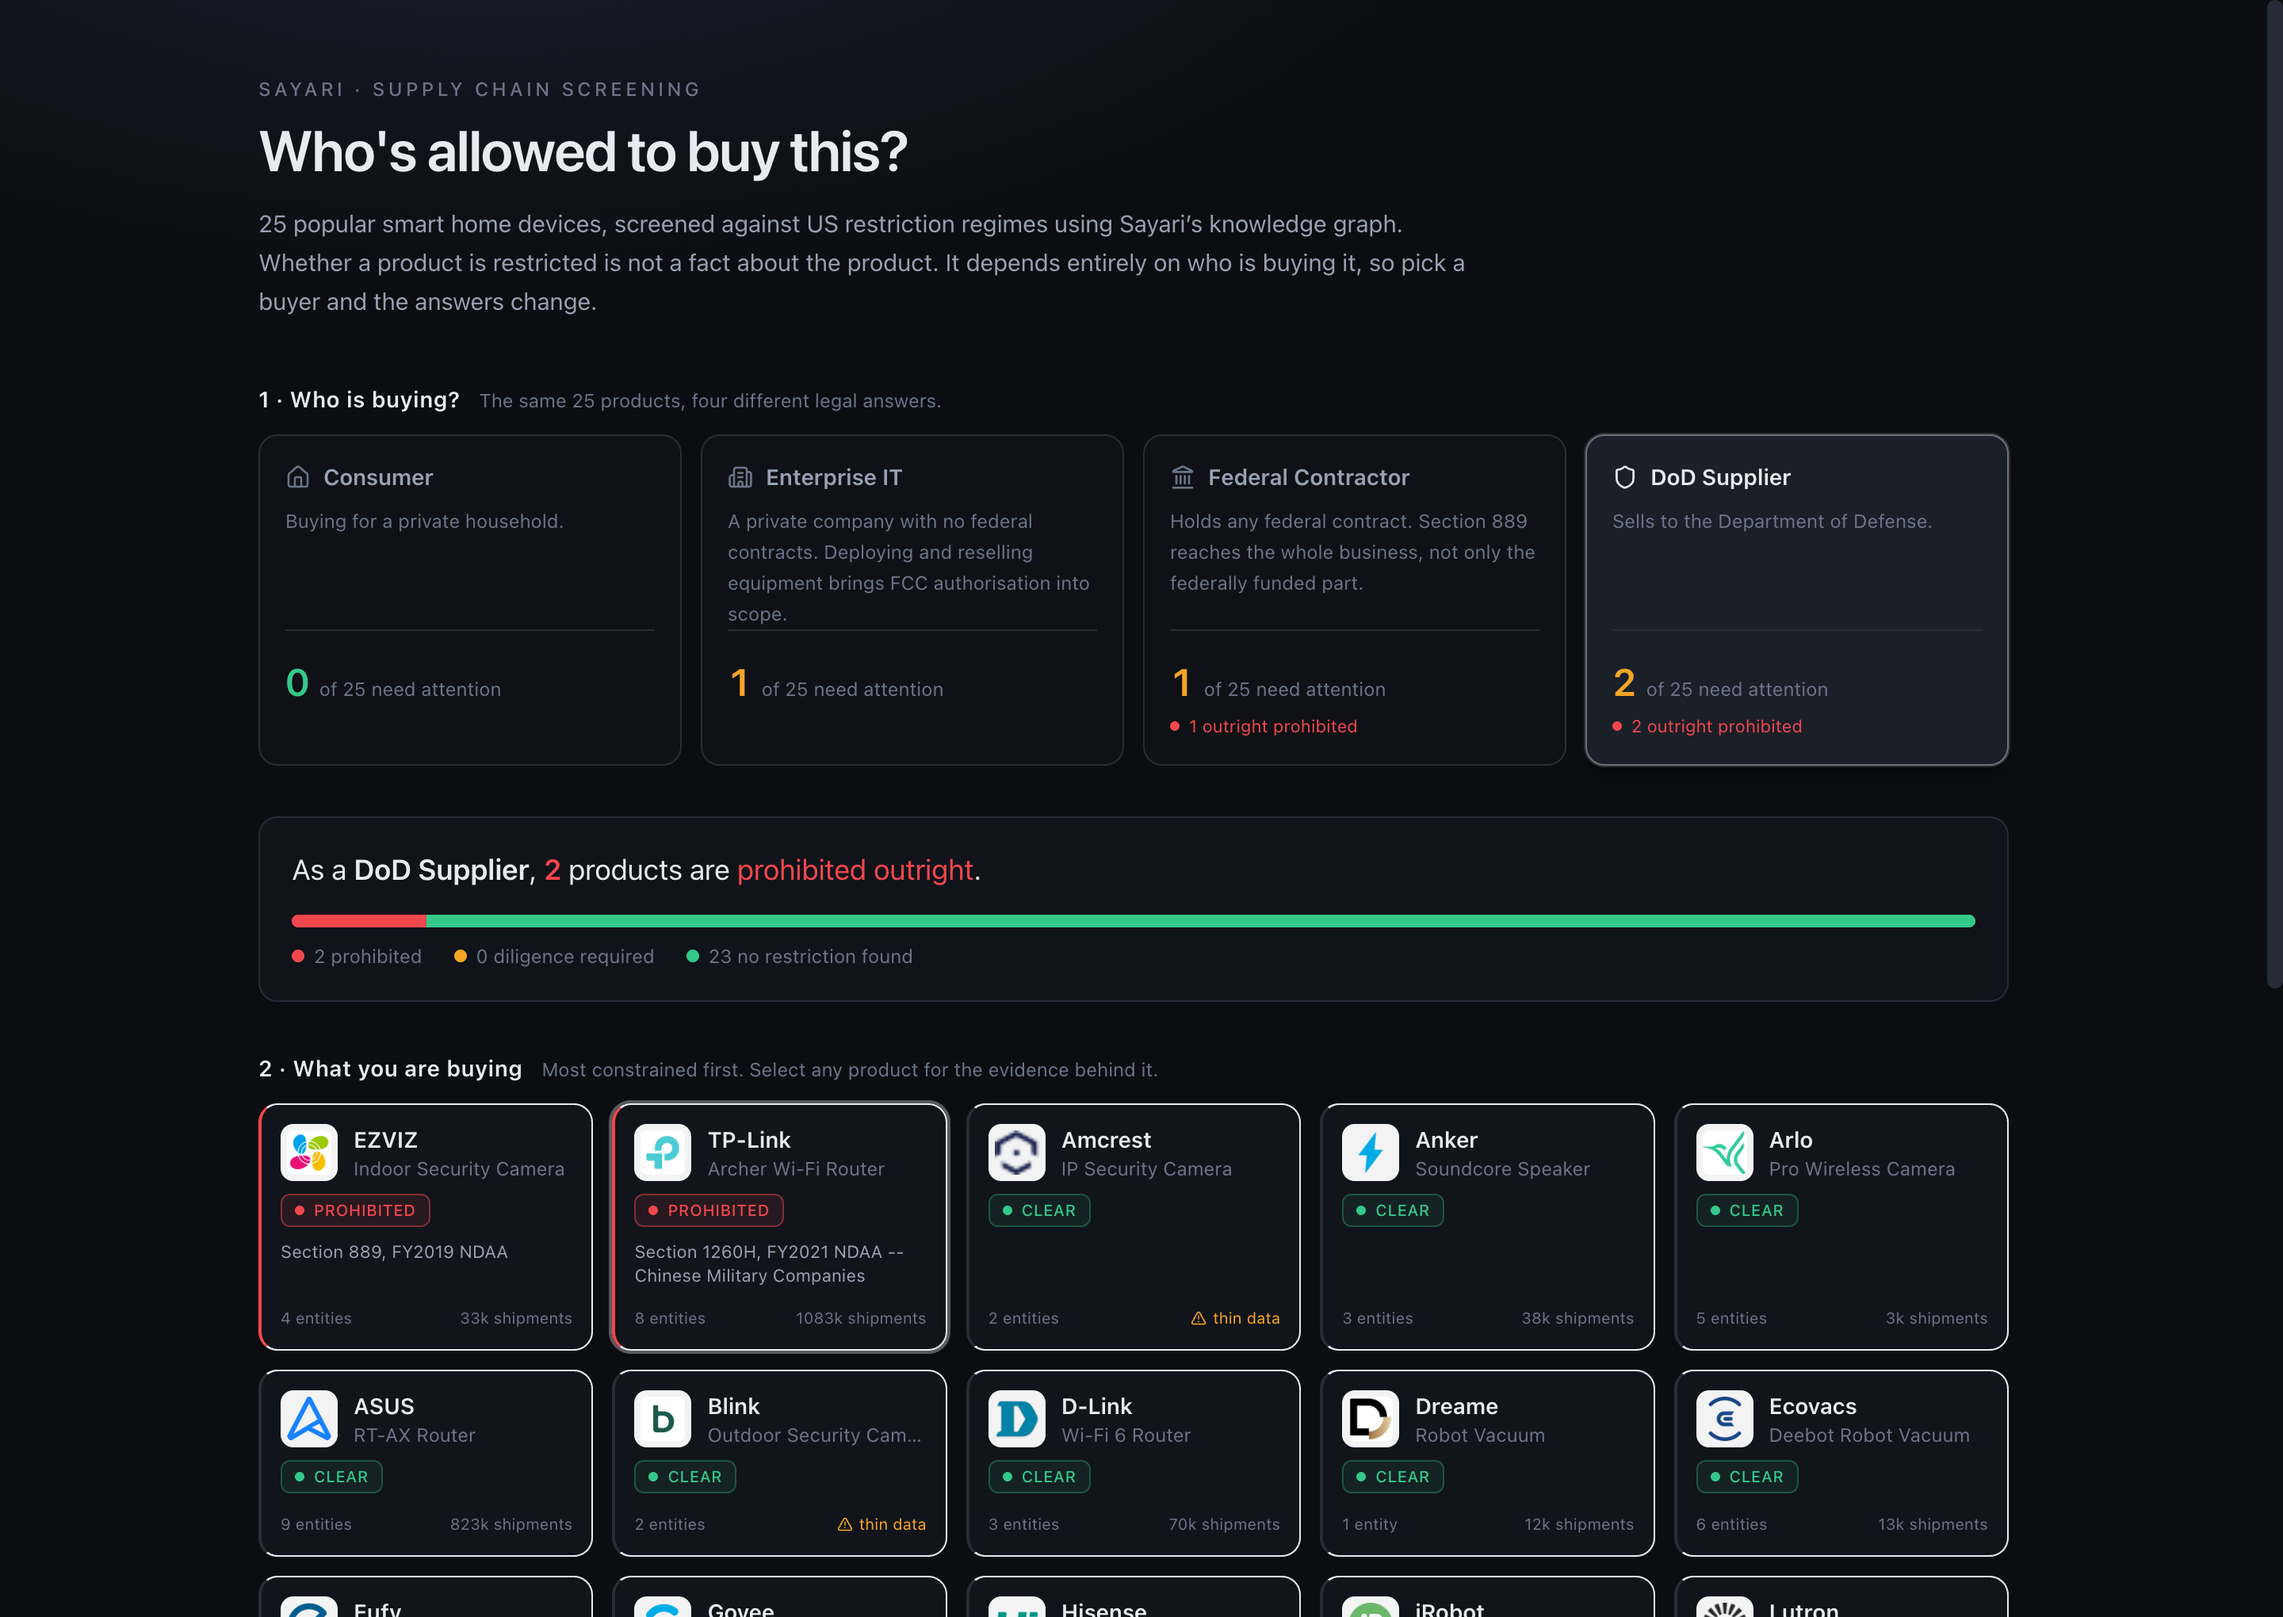
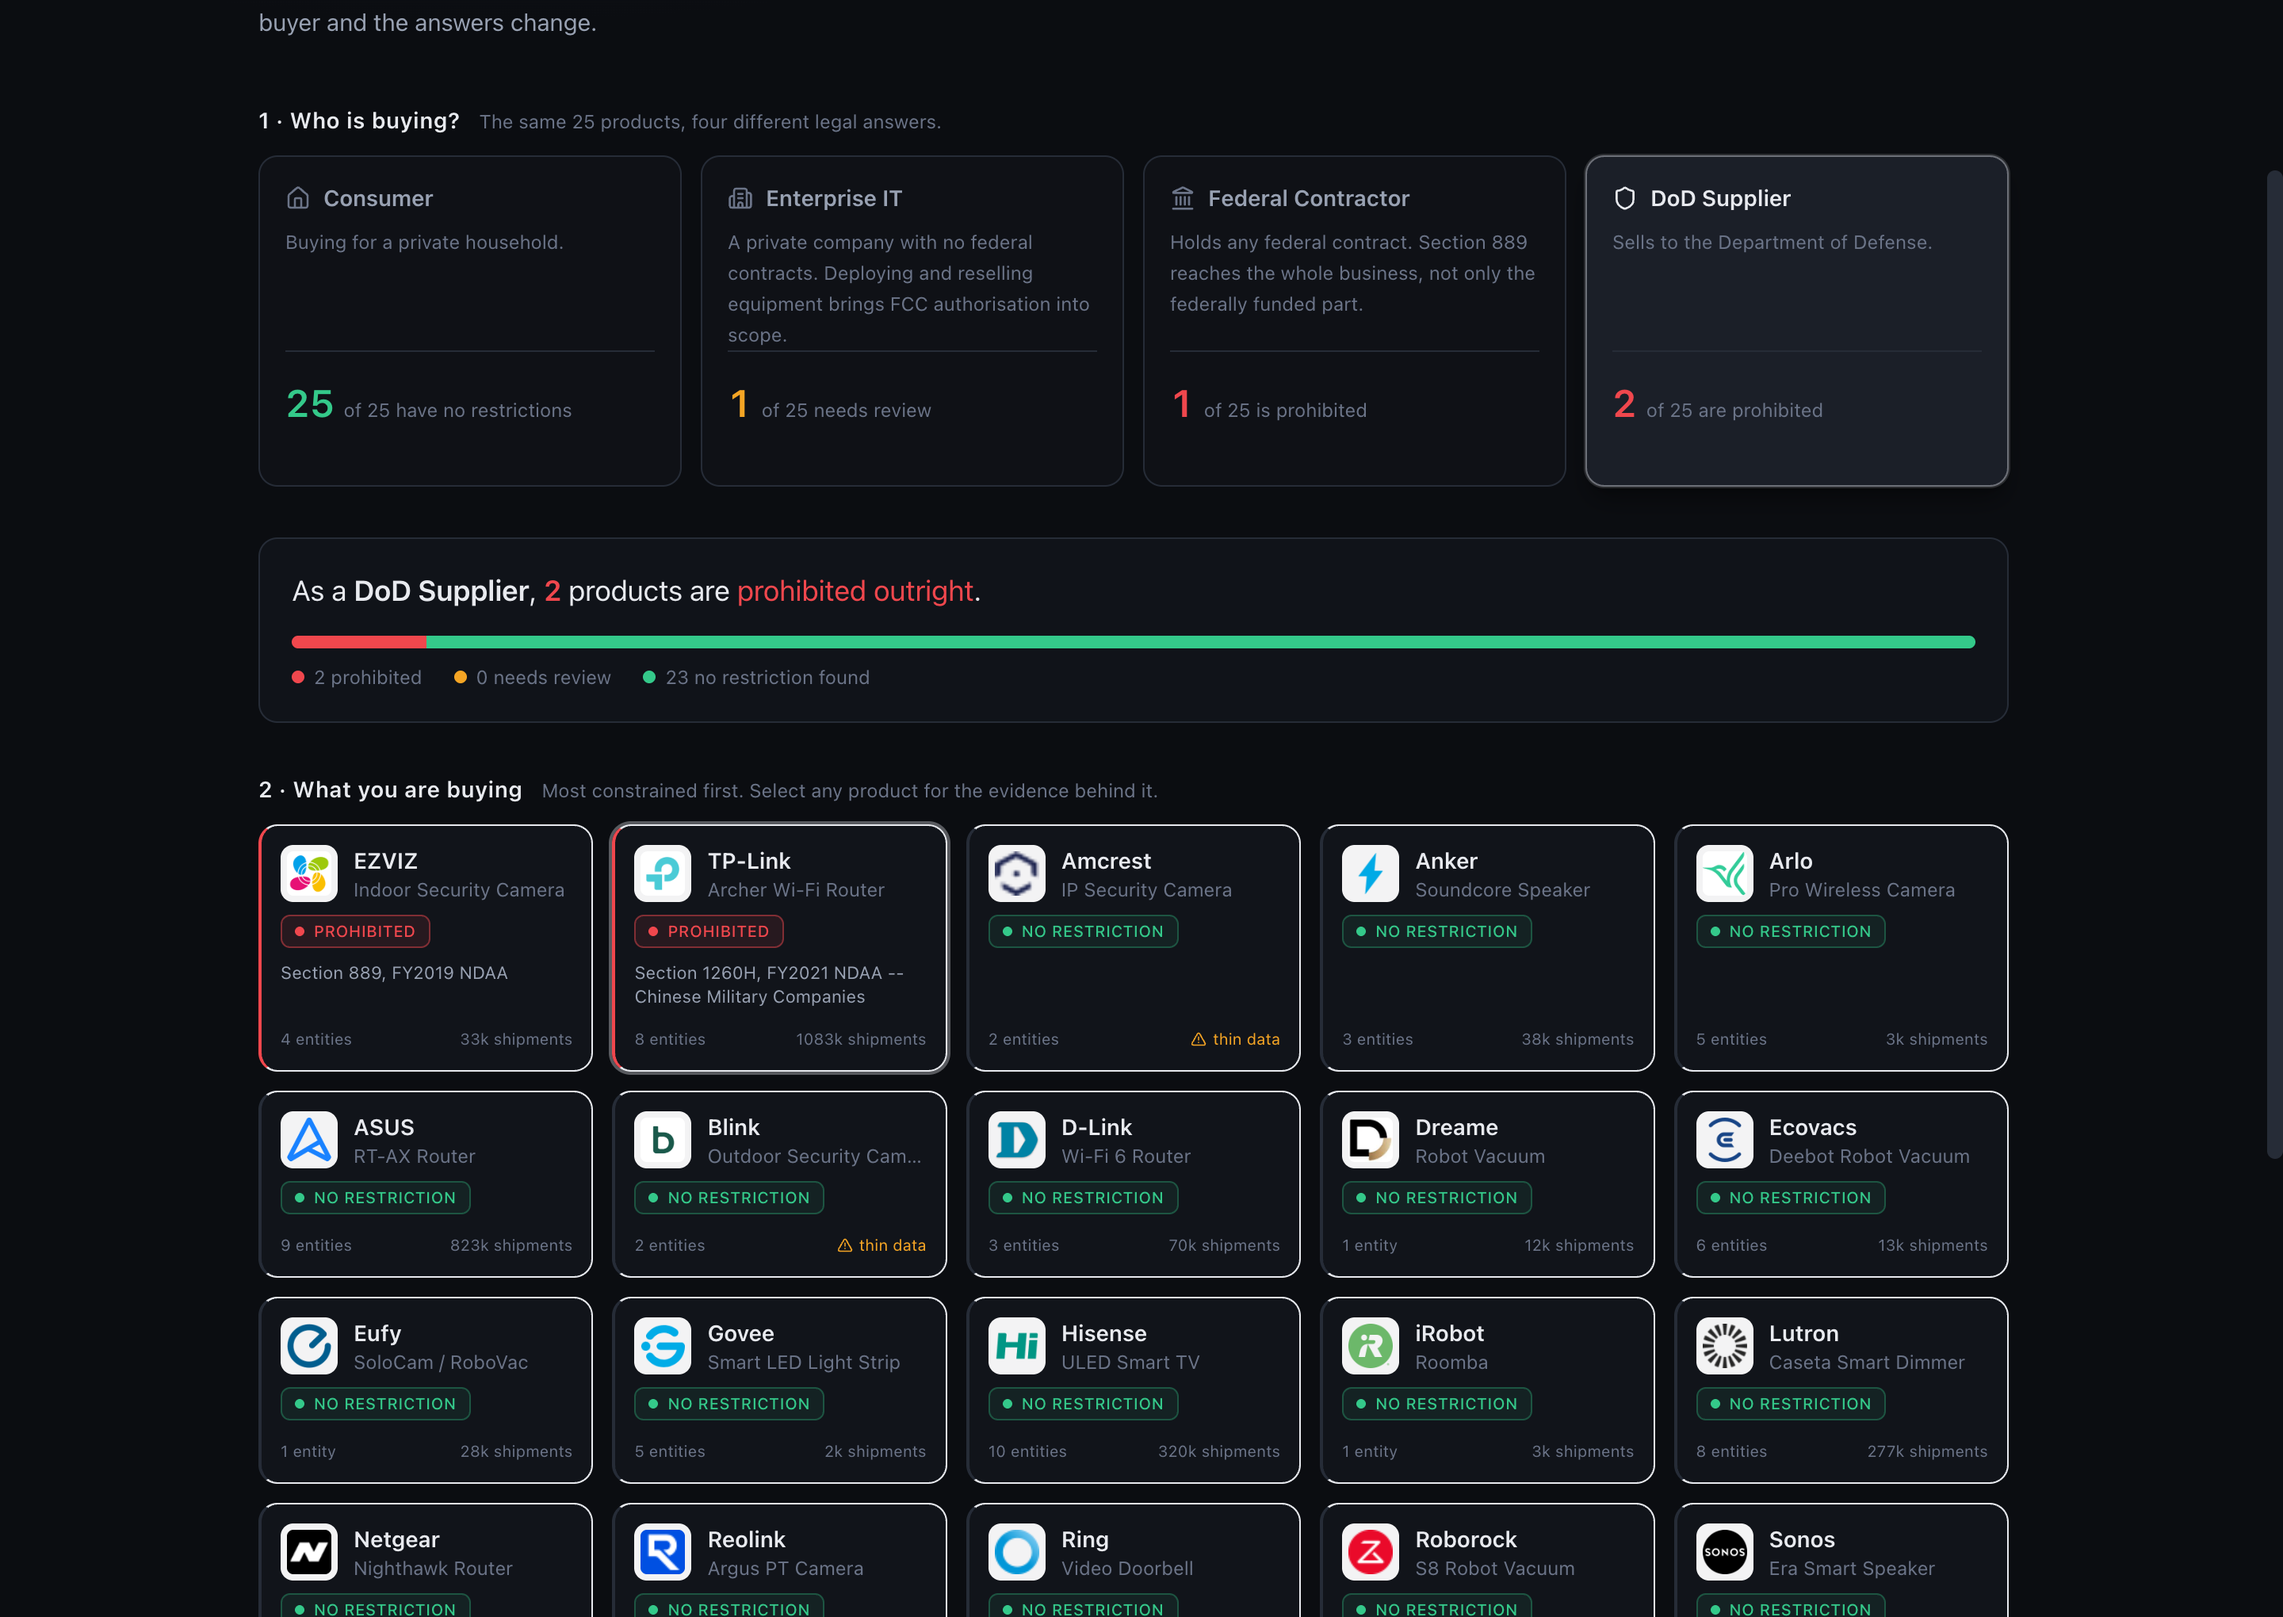
ui: count each product once, and use one name per status
The picker showed "1 of 25 need attention" with "1 outright prohibited"
underneath it -- the same product counted twice, as though a prohibition were a
separate thing from needing attention.

Each profile now leads with its most severe count and names that status:

  Consumer            25 of 25 have no restrictions
  Enterprise IT        1 of 25 needs review
  Federal Contractor   1 of 25 is prohibited
  DoD Supplier         2 of 25 are prohibited

Review only appears as a second line when a profile has both, which no profile
currently does.

Also collapses three synonyms for one verdict. "Diligence required", "Check
first" and "needs review" were the same status wearing different words in the
picker, the cards and the banner, which read as three different things.

diff --git a/frontend/src/components/PersonaPicker.tsx b/frontend/src/components/PersonaPicker.tsx
@@ -1,5 +1,6 @@
 import { Building2, Home, Landmark, Shield } from "lucide-react";
 import type { Persona, ProductCard, Status } from "../types";
+import { STATUS } from "../status";
 
 const ICONS: Record<string, typeof Home> = {
   consumer: Home,
@@ -7,6 +8,35 @@ const ICONS: Record<string, typeof Home> = {
   federal_contractor: Landmark,
   dod: Shield,
 };
+
+/** The one number worth leading with, and what to call it.
+ *
+ *  A profile with 1 prohibited product has 1 problem, not 1 problem plus 1
+ *  "needing attention". Naming the worst status directly is both shorter and
+ *  more accurate than a combined total.
+ */
+function leadWith(counts: Record<Status, number>, total: number) {
+  if (counts.prohibited > 0)
+    return {
+      status: "prohibited" as Status,
+      count: counts.prohibited,
+      wording: counts.prohibited === 1 ? "is prohibited" : "are prohibited",
+      style: STATUS.prohibited,
+    };
+  if (counts.review > 0)
+    return {
+      status: "review" as Status,
+      count: counts.review,
+      wording: counts.review === 1 ? "needs review" : "need review",
+      style: STATUS.review,
+    };
+  return {
+    status: "no_restriction" as Status,
+    count: total,
+    wording: "have no restrictions",
+    style: STATUS.no_restriction,
+  };
+}
 
 function tally(cards: ProductCard[], key: string) {
   const out: Record<Status, number> = {
@@ -51,7 +81,7 @@ export function PersonaPicker({
         {personas.map((persona) => {
           const Icon = ICONS[persona.key] ?? Home;
           const counts = tally(cards, persona.key);
-          const flagged = counts.prohibited + counts.review;
+          const headline = leadWith(counts, cards.length);
           const on = persona.key === active;
 
           return (
@@ -85,25 +115,26 @@ export function PersonaPicker({
                 {persona.blurb}
               </p>
 
+              {/* Lead with the most severe count and name that status. Showing a
+                  combined "needs attention" total alongside a prohibited count
+                  counted the same product twice: 1 needing attention *was* the 1
+                  prohibited. */}
               <div className="mt-auto border-t border-line pt-4">
                 <div className="flex items-baseline gap-1.5">
                   <span
-                    className={[
-                      "text-2xl font-semibold tabular-nums",
-                      flagged === 0 ? "text-clear" : "text-check",
-                    ].join(" ")}
+                    className={`text-2xl font-semibold tabular-nums ${headline.style.text}`}
                   >
-                    {flagged}
+                    {headline.count}
                   </span>
                   <span className="text-xs text-faint">
-                    of {cards.length} need attention
+                    of {cards.length} {headline.wording}
                   </span>
                 </div>
-                <div className="mt-1 flex h-4 items-center gap-1.5 text-[11px] text-stop">
-                  {counts.prohibited > 0 && (
+                <div className="mt-1 flex h-4 items-center gap-1.5 text-[11px] text-check">
+                  {headline.status === "prohibited" && counts.review > 0 && (
                     <>
-                      <span className="h-1.5 w-1.5 rounded-full bg-stop" />
-                      {counts.prohibited} outright prohibited
+                      <span className="h-1.5 w-1.5 rounded-full bg-check" />
+                      {counts.review} more need review
                     </>
                   )}
                 </div>

diff --git a/frontend/src/status.ts b/frontend/src/status.ts
@@ -18,8 +18,8 @@ export const STATUS = {
     bar: "bg-stop",
   },
   review: {
-    label: "Diligence required",
-    short: "Check first",
+    label: "Needs review",
+    short: "Needs review",
     verb: "must review before buying",
     dot: "bg-check",
     text: "text-check",
@@ -29,7 +29,7 @@ export const STATUS = {
   },
   no_restriction: {
     label: "No restriction found",
-    short: "Clear",
+    short: "No restriction",
     verb: "can buy",
     dot: "bg-clear",
     text: "text-clear",

diff --git a/frontend/src/components/ImpactBar.tsx b/frontend/src/components/ImpactBar.tsx
@@ -57,7 +57,7 @@ export function ImpactBar({
               <>
                 <span className="font-semibold text-check">{counts.review}</span>{" "}
                 {counts.review === 1 ? "needs" : "need"}{" "}
-                <span className="text-check">diligence</span> before purchase.
+                <span className="text-check">review</span> before purchase.
               </>
             )}
           </>
